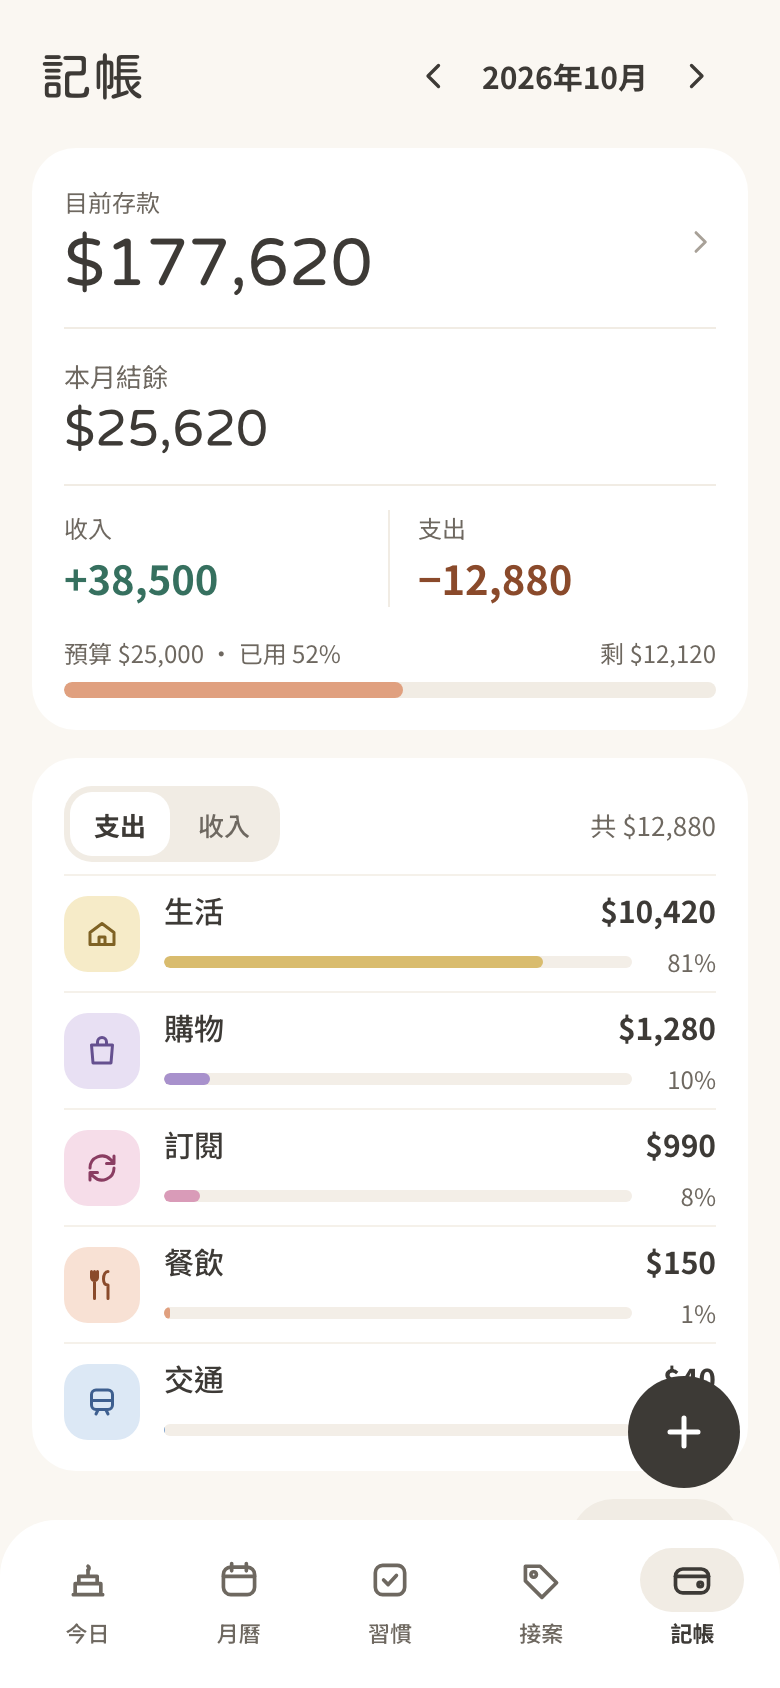
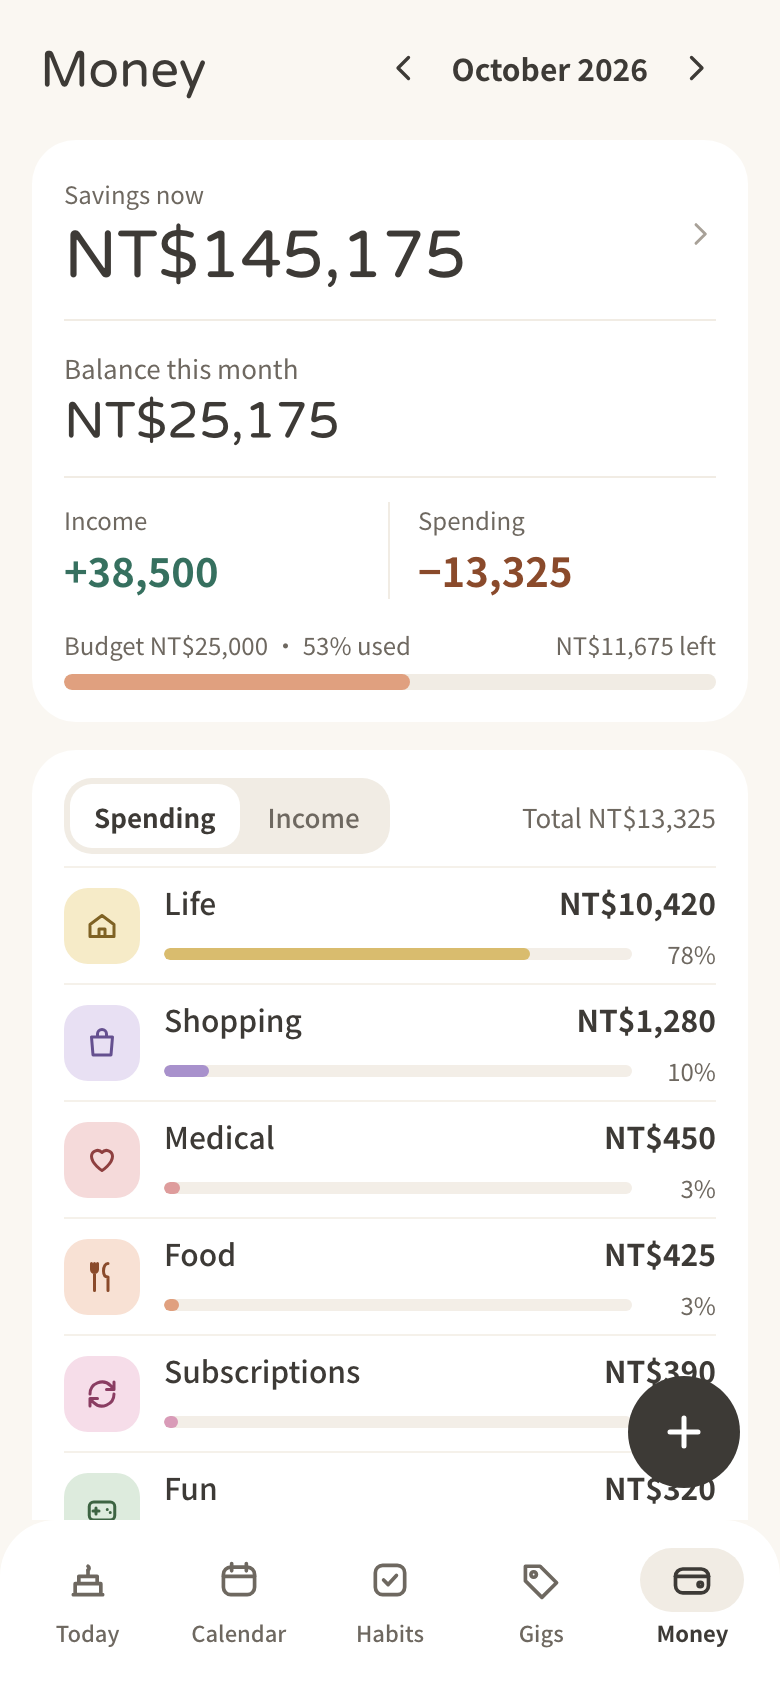
Retake screenshots in English and fix English plurals

diff --git a/src/views/settings/Export.vue b/src/views/settings/Export.vue
@@ -88,10 +88,10 @@ const baseName = computed(() => {
 
 const fileMeta = computed(() => {
   if (!sheets.value.length) return t('export.pickOne')
-  const rows = t('export.rows', { n: totalRows.value })
+  const rows = t('export.rows', { n: totalRows.value }, totalRows.value)
   if (format.value === 'csv')
     return sheets.value.length > 1 ? `${t('export.csvFiles')} · ${rows}` : rows
-  return `${t('export.sheets', { n: sheets.value.length })} · ${rows}`
+  return `${t('export.sheets', { n: sheets.value.length }, sheets.value.length)} · ${rows}`
 })
 
 // ---- export ----
@@ -175,7 +175,7 @@ const rangeText = computed(() => `${range.value.start} – ${range.value.end}`.r
             <span>{{ t(`export.item.${c}`) }}</span>
             <span class="sub">{{ t(`export.itemSub.${c}`) }}</span>
           </span>
-          <span class="sub num">{{ t('export.count', { n: countOf(c) }) }}</span>
+          <span class="sub num">{{ t('export.count', { n: countOf(c) }, countOf(c)) }}</span>
         </button>
       </fieldset>
 

diff --git a/src/views/GigsView.vue b/src/views/GigsView.vue
@@ -188,6 +188,7 @@ async function step(gig: GigRow, key: GigStep) {
   gap: 4px;
   padding: 12px;
   border-radius: 20px;
+  container-type: inline-size;
 }
 
 .stat-label {
@@ -199,6 +200,11 @@ async function step(gig: GigRow, key: GigStep) {
   font-family: var(--font-display);
   font-size: 19px;
   overflow-wrap: anywhere;
+}
+
+/* "NT$20,000" is longer than "$20,000": shrink to fit the card so it stays on one line. */
+:lang(en) .stat-value {
+  font-size: min(19px, 17cqi);
 }
 
 .stat.paid {

diff --git a/src/views/CalendarView.vue b/src/views/CalendarView.vue
@@ -235,7 +235,7 @@ const isPast = computed(() => selected.value < today.value)
         <div class="panel-head">
           <h2 class="panel-title">{{ selectedLabel }}</h2>
           <span v-if="dayEvents.length" class="panel-count">{{
-            t('calendar.events', { n: dayEvents.length })
+            t('calendar.events', { n: dayEvents.length }, dayEvents.length)
           }}</span>
         </div>
         <RouterLink

diff --git a/src/views/add/AddHabit.vue b/src/views/add/AddHabit.vue
@@ -62,7 +62,7 @@ function toggleDay(iso: number) {
 const dayHint = computed(() => {
   const n = weekdays.value.length
   if (n === 0) return t('addHabit.pickADay')
-  return n === 7 ? t('addHabit.everyDay') : t('addHabit.perWeek', { n })
+  return n === 7 ? t('addHabit.everyDay') : t('addHabit.perWeek', { n }, n)
 })
 
 const remindTime = computed(() => shortTime(settings.row?.habit_remind_time) || '21:30')

diff --git a/docs/DECISIONS.md b/docs/DECISIONS.md
@@ -88,4 +88,4 @@
 56. **接案步驟改成合約 → 交稿 → 上線 → 勞報單 → 入帳**（使用者要求，取代 SPEC 4.4 的順序）：勞報單通常上線後才簽。卡片的圈圈、連動規則和匯出的欄位順序都照這個順序。
 57. **示範模式**（使用者要求，給履歷和面試用）：登入畫面「先逛逛（示範模式）」不用登入就能進入。資料庫改用記憶體版（`services/memoryBackend.ts`，跟單元測試共用），示範資料由 `services/demo.ts` 透過正常的 store 和同步規則建立（日期以今天為基準，語言跟著目前設定）。所有功能都能操作，但只存在這個分頁裡、不會送到 Supabase，重新整理就回到初始狀態。畫面最上方有示範模式提示和「離開」按鈕；設定頁的「登出」在示範模式就是離開。
 58. **「關於這個作品」頁**（使用者要求，給履歷用）：`/about` 不用登入就能打開，登入畫面有連結。內容：介紹、示範模式和 GitHub 按鈕、5 張截圖（`public/screenshots/`，和 README 共用）、特色、模組怎麼連動、怎麼做出來的、技術。
-59. **示範模式和「關於這個作品」頁固定用英文**（使用者要求，給履歷用）：進入示範模式時把語言切成英文（示範資料也跟著是英文），離開時換回原本的語言；示範中仍可在設定頁切換。`/about` 不管目前語言都顯示英文。登入畫面照原本的語言設定。
+59. **示範模式和「關於這個作品」頁固定用英文**（使用者要求，給履歷用）：進入示範模式時把語言切成英文（示範資料也跟著是英文），離開時換回原本的語言；示範中仍可在設定頁切換。`/about` 不管目前語言都顯示英文。登入畫面照原本的語言設定。README 和 About 頁的截圖改用英文示範資料重拍。英文版順便修正：單複數（1 event、1 day a week 等），接案頁上方金額在英文時縮小字級，讓「NT$20,000」不會斷行。
